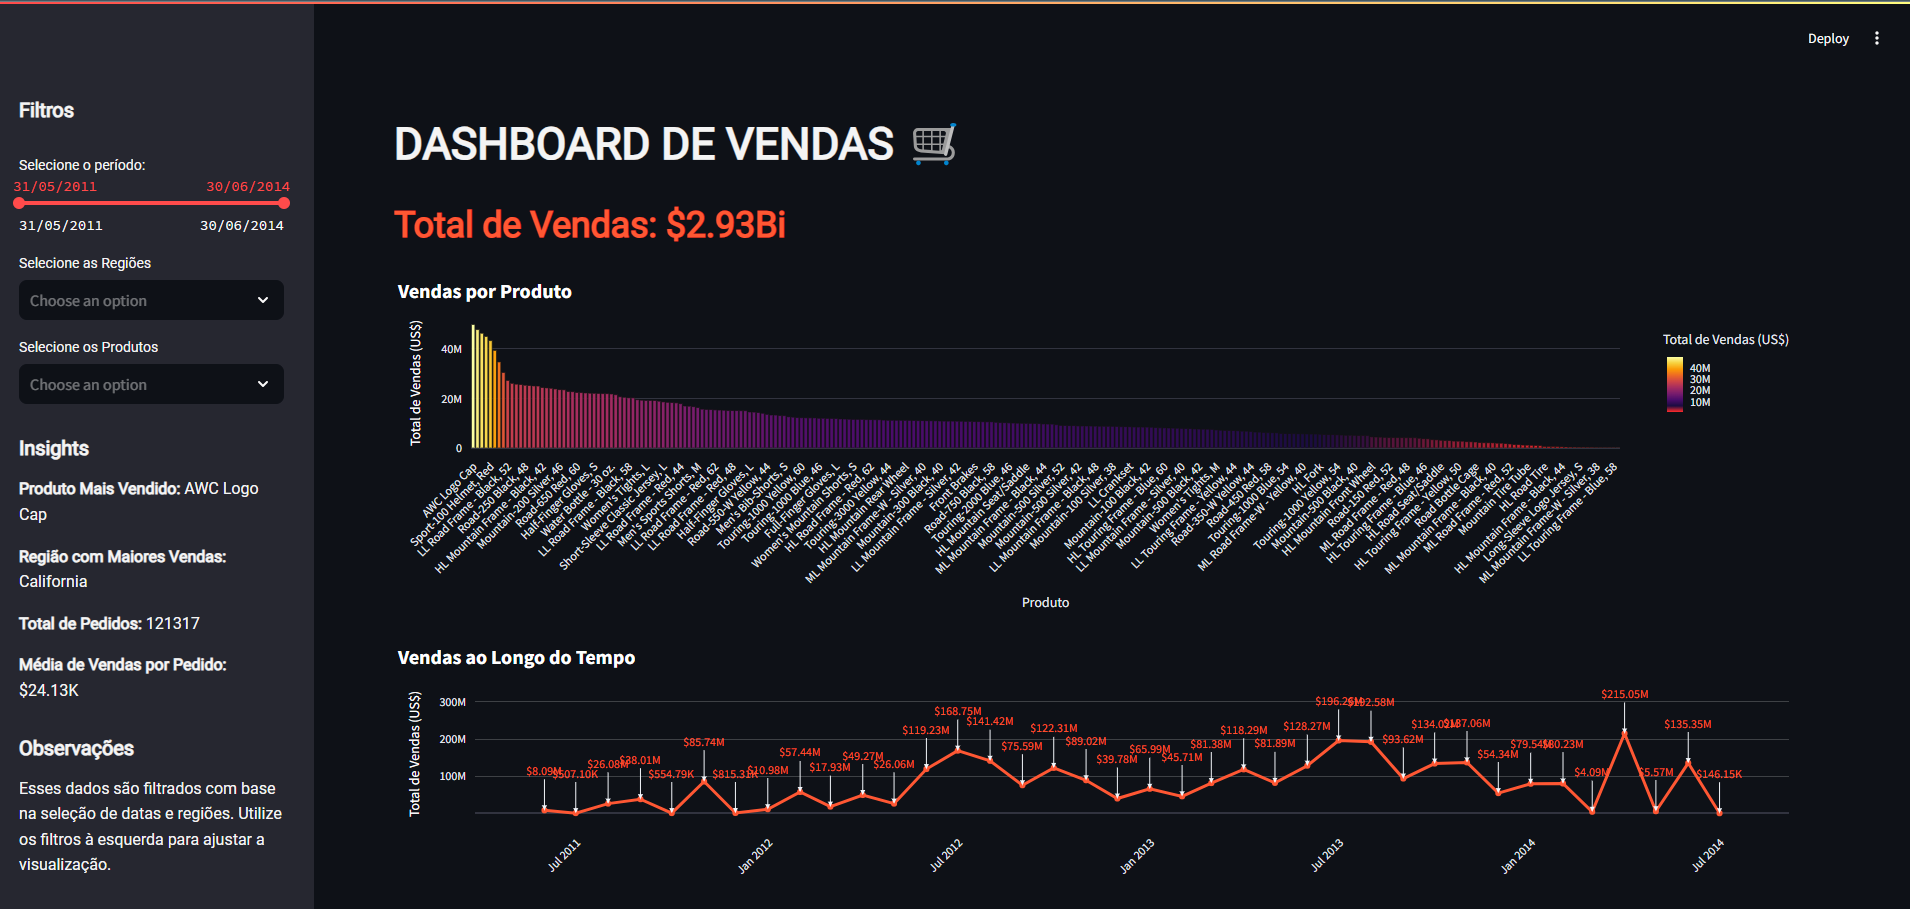
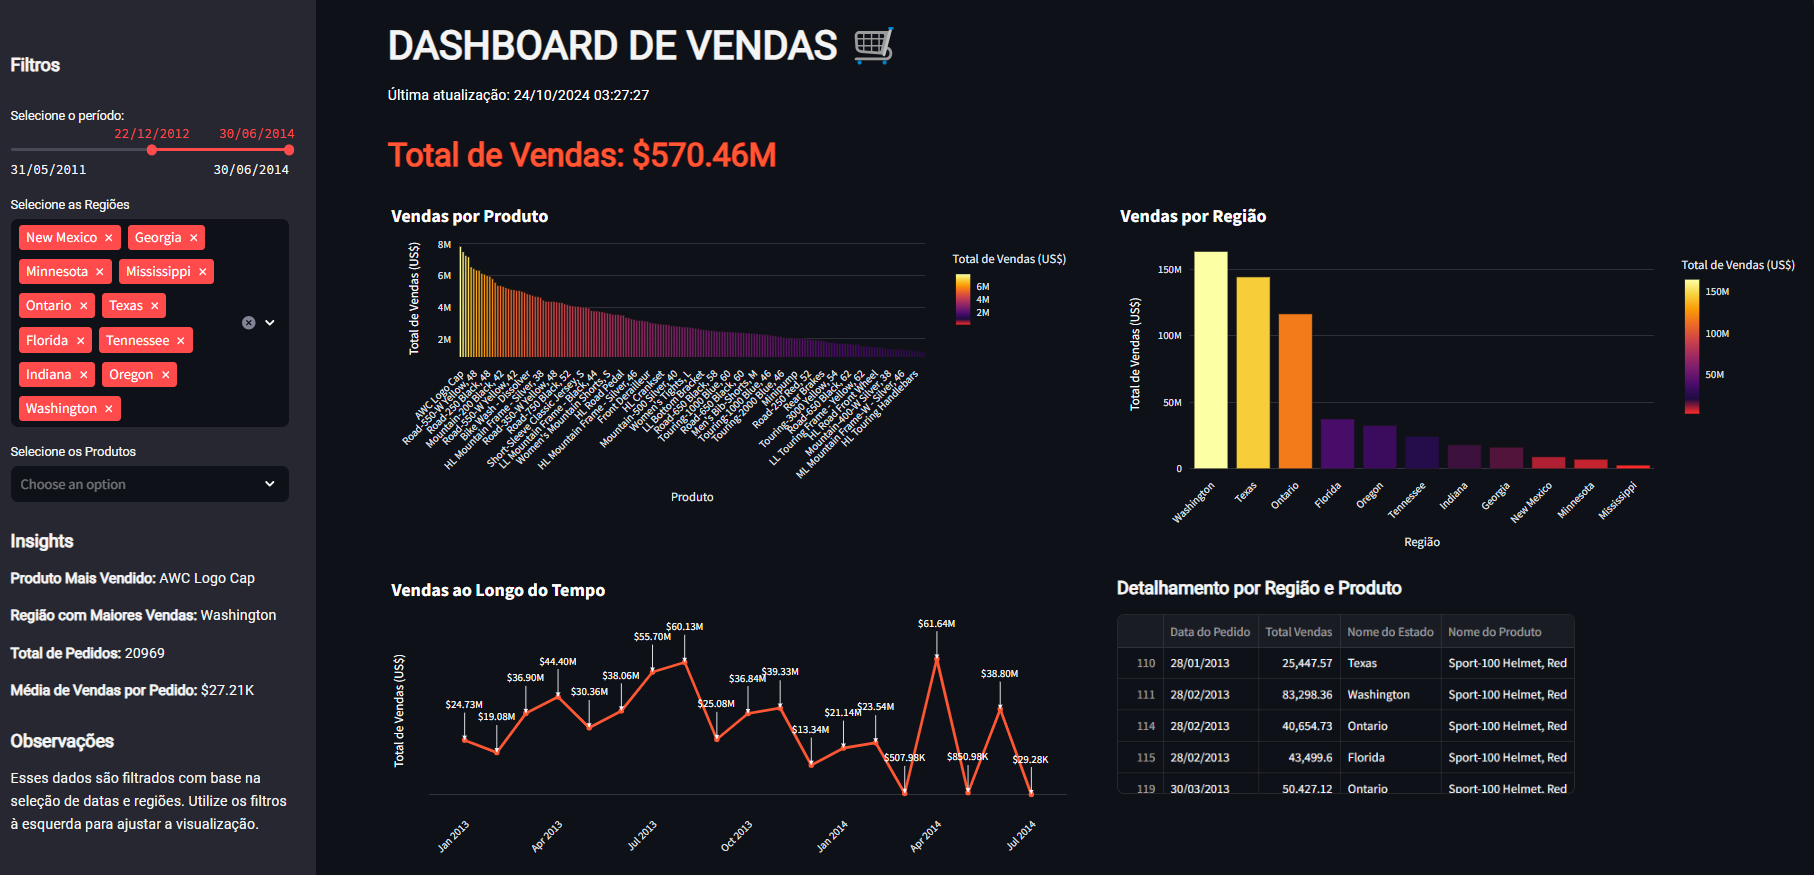
Sua mensagem de commit aqui

diff --git a/Dashboard.py b/Dashboard.py
@@ -1,9 +1,11 @@
+# Importação de bibliotecas
 import streamlit as st
 import pandas as pd
 import plotly.express as px
 from sqlalchemy import create_engine, exc
 from datetime import datetime
 
+# Configuração da página
 st.set_page_config(page_title='Dashboard de Vendas', layout='wide')
 st.title('DASHBOARD DE VENDAS 🛒')
 
@@ -11,7 +13,7 @@ st.title('DASHBOARD DE VENDAS 🛒')
 connection_url = 'mssql+pyodbc://ELLAS/AdventureWorks?driver=SQL+Server&trusted_connection=yes'
 
 # Função para conectar ao banco de dados e carregar os dados
-@st.cache_data(ttl=600)
+@st.cache_data(ttl=1800)
 def load_data():
     try:
         engine = create_engine(connection_url)
@@ -45,14 +47,30 @@ def format_large_numbers(value):
     else:
         return f'{value:.2f}'
 
-# Carregar os dados
+# Carregamento dos dados
 df = load_data()
-
 if df.empty:
     st.error("Nenhum dado encontrado na consulta.")
     st.stop()
 
-# Definindo o intervalo de datas
+# Mostrar a data da última atualização
+last_updated = datetime.now().strftime("%d/%m/%Y %H:%M:%S")
+st.markdown(f"<p style='color: #ffffff;'>Última atualização: {last_updated}</p>", unsafe_allow_html=True)
+
+# Função para formatar números grandes
+def format_large_numbers(value):
+    if value >= 1e12:
+        return f'{value / 1e12:.2f}T'
+    elif value >= 1e9:
+        return f'{value / 1e9:.2f}Bi'
+    elif value >= 1e6:
+        return f'{value / 1e6:.2f}M'
+    elif value >= 1e3:
+        return f'{value / 1e3:.2f}K'
+    else:
+        return f'{value:.2f}'
+
+# Intervalo de datas
 min_date = df['OrderDate'].min().date()
 max_date = df['OrderDate'].max().date()
 
@@ -91,10 +109,10 @@ filtered_df, available_regions, available_products = filter_region_product(df)
 selected_regions = st.sidebar.multiselect('Selecione as Regiões', available_regions)
 selected_products = st.sidebar.multiselect('Selecione os Produtos', available_products)
 
-# Aplicar filtros de data
+# Filtros de data
 filtered_df = filtered_df[(filtered_df['OrderDate'] >= pd.Timestamp(start_date)) & (filtered_df['OrderDate'] <= pd.Timestamp(end_date))]
 
-# Aplicar filtros de regiões e produtos
+# Filtros de regiões e produtos
 filtered_df, available_regions, available_products = filter_region_product(filtered_df, selected_regions, selected_products)
 
 # Arredondando valores
@@ -116,6 +134,7 @@ sales_by_product['HoverText'] = (
     "<b>Vendas %:</b> " + (sales_by_product['TotalDue'] / total_sales * 100).map('{:.2f}%'.format)
 )
 
+# Gráfico
 fig_product = px.bar(sales_by_product, x='ProductName', y='TotalDue',
                       title='Vendas por Produto',
                       labels={'TotalDue': 'Total de Vendas (US$)', 'ProductName': 'Produto'},
@@ -136,7 +155,68 @@ fig_product.update_layout(yaxis_title='Total de Vendas (US$)',
                           margin=dict(l=40, r=40, t=40, b=40),
                           height=350)
 
+# Vendas por região
+sales_by_region = filtered_df.groupby('StateName')['TotalDue'].sum().reset_index().round(2)
+sales_by_region = sales_by_region.sort_values(by='TotalDue', ascending=False)
+
+# Tooltip personalizado
+sales_by_region['HoverText'] = (
+    "<b>Região:</b> " + sales_by_region['StateName'] + "<br>" +
+    "<b>Total Vendido:</b> " + sales_by_region['TotalDue'].map('${:,.2f}'.format) + "<br>" +
+    "<b>Vendas %:</b> " + (sales_by_region['TotalDue'] / total_sales * 100).map('{:.2f}%'.format)
+)
+
+# Gráfico
+fig_region = px.bar(sales_by_region, x='StateName', y='TotalDue',
+                    title='Vendas por Região',
+                    labels={'TotalDue': 'Total de Vendas (US$)', 'StateName': 'Região'},
+                    color='TotalDue',
+                    color_continuous_scale=px.colors.sequential.Inferno)
+
+fig_region.update_traces(hovertemplate=sales_by_region['HoverText'],
+                          customdata=sales_by_region[['HoverText']].values)
+
+fig_region.update_layout(yaxis_title='Total de Vendas (US$)',
+                         xaxis_title='Região',
+                         template='plotly_dark',
+                         plot_bgcolor='rgba(0, 0, 0, 0)',
+                         paper_bgcolor='rgba(0, 0, 0, 0)',
+                         title_font=dict(size=20, color='white'),
+                         xaxis=dict(title_font=dict(size=14), tickangle=-45, color='white'),
+                         yaxis=dict(title_font=dict(size=14, color='white'), tickcolor='white'),
+                         margin=dict(l=40, r=40, t=40, b=40),
+                         height=400)
+
 # Vendas ao longo do tempo
+sales_over_time = filtered_df.groupby(pd.Grouper(key='OrderDate', freq='M'))['TotalDue'].sum().reset_index().round(2)
+
+# Tooltip personalizado
+sales_over_time['HoverText'] = (
+    "<b>Data:</b> " + sales_over_time['OrderDate'].dt.strftime('%d/%m/%Y') + "<br>" +
+    "<b>Total Vendido:</b> " + sales_over_time['TotalDue'].map('${:,.2f}'.format) + "<br>" +
+    "<b>Vendas %:</b> " + (sales_over_time['TotalDue'] / total_sales * 100).map('{:.2f}%'.format)
+)
+
+# Gráfico
+fig_time = px.line(sales_over_time, x='OrderDate', y='TotalDue',
+                   title='Vendas ao Longo do Tempo',
+                   labels={'TotalDue': 'Total de Vendas (US$)', 'OrderDate': 'Data'},
+                   markers=True)
+
+fig_time.update_traces(hovertemplate=sales_over_time['HoverText'],
+                        customdata=sales_over_time[['HoverText']].values)
+
+fig_time.update_layout(yaxis_title='Total de Vendas (US$)',
+                       xaxis_title='Data',
+                       template='plotly_dark',
+                       plot_bgcolor='rgba(0, 0, 0, 0)',
+                       paper_bgcolor='rgba(0, 0, 0, 0)',
+                       title_font=dict(size=20, color='white'),
+                       xaxis=dict(title_font=dict(size=14), color='white'),
+                       yaxis=dict(title_font=dict(size=14, color='white'), tickcolor='white'),
+                       margin=dict(l=40, r=40, t=40, b=40),
+                       height=400)
+
 sales_over_time = filtered_df.groupby(pd.Grouper(key='OrderDate', freq='M'))['TotalDue'].sum().reset_index().round(2)
 
 # Tooltip personalizado
@@ -162,12 +242,11 @@ for index, row in sales_over_time.iterrows():
             arrowhead=2,
             ax=0,
             ay=-40,  
-            font=dict(color="#ff5733")
+            font=dict(color="#ffffff")
         )
 
 # Definindo os valores de gridlines
 gridline_values = [100_000_000, 200_000_000, 300_000_000]
-
 
 fig_time.update_yaxes(
     tickvals=gridline_values,  
@@ -188,7 +267,7 @@ fig_time.update_layout(yaxis_title='Total de Vendas (US$)',
                        xaxis=dict(title_font=dict(size=14), tickangle=-45, color='white'),
                        yaxis=dict(title_font=dict(size=14, color='white'), tickcolor='white'),
                        margin=dict(l=40, r=40, t=40, b=40),
-                       height=275)
+                       height=350)
 
 # Estilo do Dashboard
 st.markdown("""<style>
@@ -196,10 +275,6 @@ body { background-color: #1e1e1e; }
 @import url('https://fonts.googleapis.com/css2?family=Roboto:wght@300;400;500;700&display=swap');
 h1, h2, h3, h4, h5, h6, p { font-family: 'Roboto', sans-serif; color: #f4f4f4; }
 </style>""", unsafe_allow_html=True)
-
-# Exibição dos gráficos
-st.plotly_chart(fig_product, use_container_width=True)
-st.plotly_chart(fig_time, use_container_width=True)
 
 # Insights na sidebar
 st.sidebar.header('Insights')
@@ -221,3 +296,34 @@ st.sidebar.write(f"**Média de Vendas por Pedido:** ${average_sales_formatted}")
 st.sidebar.markdown("## Observações")
 st.sidebar.write("Esses dados são filtrados com base na seleção de datas e regiões. Utilize os filtros à esquerda para ajustar a visualização.")
 
+
+# Exibição dos gráficos
+if 'OrderDate' in filtered_df.columns:
+    filtered_df['OrderDate'] = filtered_df['OrderDate'].dt.strftime('%d/%m/%Y')
+else:
+    st.warning("A coluna 'OrderDate' não está disponível no DataFrame.")
+
+if 'TotalDue' in filtered_df.columns:
+    filtered_df['TotalDue'] = filtered_df['TotalDue'].round(2)
+else:
+    st.warning("A coluna 'TotalDue' não está disponível no DataFrame.")
+
+filtered_df = filtered_df.rename(columns={
+    'OrderDate': 'Data do Pedido',
+    'TotalDue': 'Total Vendas',
+    'StateName': 'Nome do Estado',
+    'ProductName': 'Nome do Produto'
+})
+
+col1, col2 = st.columns(2)
+with col1:
+    st.plotly_chart(fig_product, use_container_width=True)
+with col2:
+    st.plotly_chart(fig_region, use_container_width=True)
+
+col3, col4 = st.columns(2)
+with col3:
+    st.plotly_chart(fig_time, use_container_width=True)
+with col4:
+    st.markdown(" ##### Detalhamento por Região e Produto")
+    st.dataframe(filtered_df[['Data do Pedido', 'Total Vendas', 'Nome do Estado', 'Nome do Produto']], height=200)

diff --git a/README.md b/README.md
@@ -61,13 +61,18 @@ Abra o navegador no endereço exibido no terminal (http://localhost:8501) para a
 
 ## Estrutura do Projeto
 
+<<<<<<< HEAD
 ├── Dashboard.py           Código principal do dashboard
+=======
+├── dashboard_vendas.py Código principal do dashboard
+>>>>>>> c50fb91 (dashboardvendasv3)
 
-├── requirements.txt       Dependências do projeto
+├── requirements.txt Dependências do projeto
 
-└── README.md              Instruções e documentação
+└── README.md Instruções e documentação
 
 ## Filtros Disponíveis
+
 Período: Selecione o intervalo de datas para visualizar as vendas.
 
 Regiões: Filtre as vendas por regiões específicas.
@@ -75,8 +80,10 @@ Regiões: Filtre as vendas por regiões específicas.
 Produtos: Filtre as vendas por produtos específicos.
 
 ## Customização
-O layout e os temas podem ser ajustados diretamente no código dashboard_vendas.py, na seção de gráficos Plotly. O cache dos dados tem duração de 10 minutos, o que pode ser ajustado na função @st.cache_data(ttl=600).
+
+O layout e os temas podem ser ajustados diretamente no código dashboard_vendas.py, na seção de gráficos Plotly. O cache dos dados tem duração de 10 minutos, o que pode ser ajustado na função @st.cache_data(ttl=1800).
 
 ## Problemas Conhecidos
+
 Caso haja problemas na conexão com o banco de dados, revise a URL de conexão e verifique as permissões no SQL Server.
 Se os gráficos não estiverem aparecendo, verifique a instalação da biblioteca Plotly.
